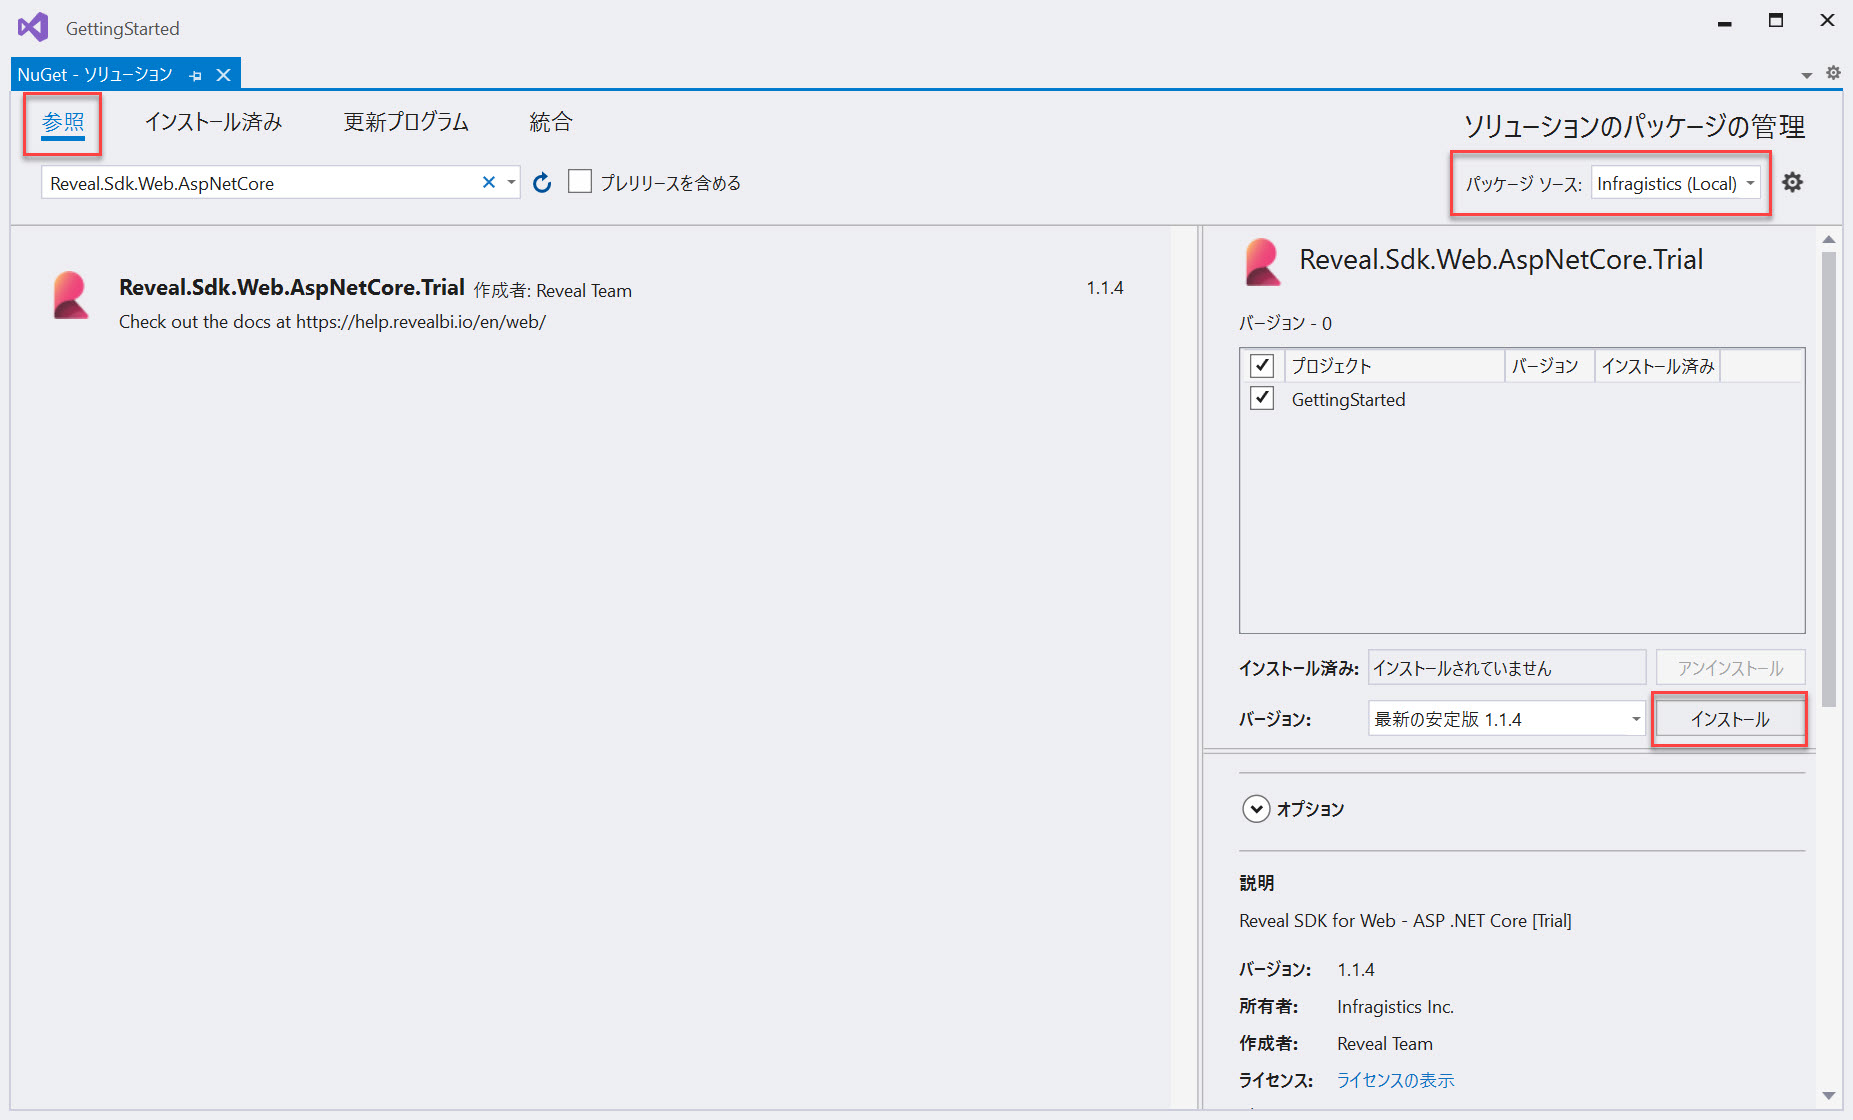
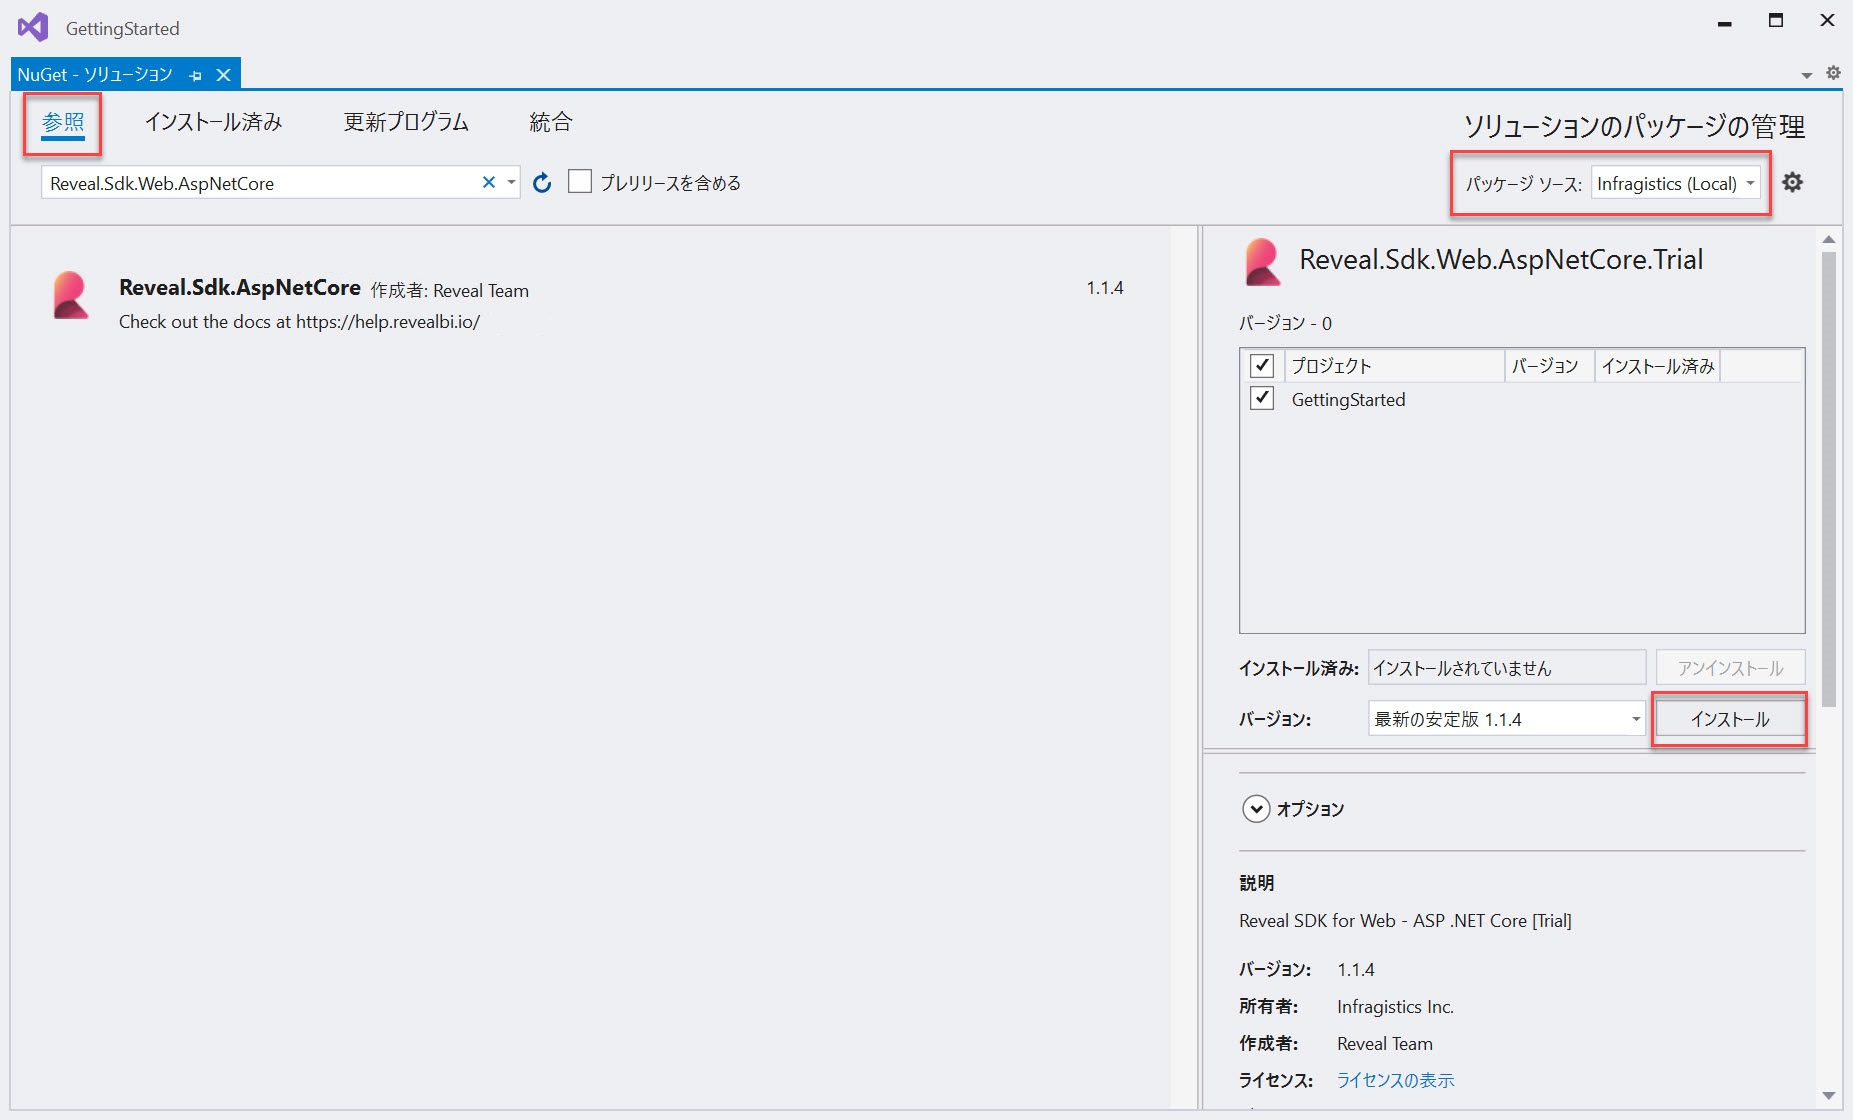
updated japanese docs for new nuget packages

diff --git a/i18n/ja/docusaurus-plugin-content-docs/current/web/getting-started-server.md b/i18n/ja/docusaurus-plugin-content-docs/current/web/getting-started-server.md
@@ -22,15 +22,9 @@
 
 ![](images/getting-started-nuget-packages-manage.jpg)
 
-2 - パッケージ マネージャー ダイアログで **[参照]** タブを開き、**Infragistics (Local)** パッケージ ソースを選択して **Reveal.Sdk.Web.AspNetCore** NuGet パッケージをプロジェクトにインストールします。
+2 - パッケージ マネージャー ダイアログで **[参照]** タブを開き、**Infragistics (Local)** パッケージ ソースを選択して **Reveal.Sdk.AspNetCore** NuGet パッケージをプロジェクトにインストールします。
 
 ![](images/getting-started-nuget-packages-install.jpg)
-
-:::info
-
-トライアル版をお使いの場合、[NuGet.org](https://www.nuget.org/packages/Reveal.Sdk.Web.AspNetCore.Trial/) にある **Reveal.Sdk.Web.AspNetCore.Trial** NuGet パッケージをインストールできます。
-
-:::
 
 3 - `Program.cs` ファイルを開き、`using Reveal.Sdk` 名前空間を追加します。次に、既存の `builder.Services.AddControllers()` メソッドに `IMcvBuilder.AddReveal()` の呼び出しを追加します。
 

diff --git a/i18n/ja/docusaurus-plugin-content-docs/current/web/configuring-server-aspnet.md b/i18n/ja/docusaurus-plugin-content-docs/current/web/configuring-server-aspnet.md
@@ -8,15 +8,9 @@
 
 ![](images/getting-started-nuget-packages-manage.jpg)
 
-2 - パッケージ マネージャー ダイアログで **[参照]** タブを開き、**Infragistics (Local)** パッケージ ソースを選択して **Reveal.Sdk.Web.AspNetCore** NuGet パッケージをプロジェクトにインストールします。
+2 - パッケージ マネージャー ダイアログで **[参照]** タブを開き、**Infragistics (Local)** パッケージ ソースを選択して **Reveal.Sdk.AspNetCore** NuGet パッケージをプロジェクトにインストールします。
 
 ![](images/getting-started-nuget-packages-install.jpg)
-
-:::info
-
-トライアル版をお使いの場合、[NuGet.org](https://www.nuget.org/packages/Reveal.Sdk.Web.AspNetCore.Trial/) にある **Reveal.Sdk.Web.AspNetCore.Trial** NuGet パッケージをインストールできます。
-
-:::
 
 3 - `Program.cs` ファイルを開き、`using Reveal.Sdk` 名前空間を追加します。次に、既存の `builder.Services.AddControllers()` メソッドに `IMcvBuilder.AddReveal()` の呼び出しを追加します。
 

diff --git a/i18n/ja/docusaurus-plugin-content-docs/current/web/getting-started-aspnet.md b/i18n/ja/docusaurus-plugin-content-docs/current/web/getting-started-aspnet.md
@@ -22,15 +22,9 @@
 
 ![](images/getting-started-nuget-packages-manage.jpg)
 
-2 - パッケージ マネージャー ダイアログで **[参照]** タブを開き、**Infragistics (Local)** パッケージ ソースを選択して **Reveal.Sdk.Web.AspNetCore** NuGet パッケージをプロジェクトにインストールします。
+2 - パッケージ マネージャー ダイアログで **[参照]** タブを開き、**Infragistics (Local)** パッケージ ソースを選択して **Reveal.Sdk.AspNetCore** NuGet パッケージをプロジェクトにインストールします。
 
 ![](images/getting-started-nuget-packages-install.jpg)
-
-:::info
-
-トライアル版をお使いの場合、[NuGet.org](https://www.nuget.org/packages/Reveal.Sdk.Web.AspNetCore.Trial/) にある **Reveal.Sdk.Web.AspNetCore.Trial** NuGet パッケージをインストールできます。
-
-:::
 
 3 - `Program.cs` ファイルを開き、`using Reveal.Sdk` 名前空間を追加します。次に、以下のように `IMcvBuilder.AddReveal()` への呼び出しを追加します。
 

diff --git a/i18n/ja/docusaurus-plugin-content-docs/current/wpf/getting-started.md b/i18n/ja/docusaurus-plugin-content-docs/current/wpf/getting-started.md
@@ -23,12 +23,6 @@
 
 ![](images/getting-started-nuget-packages-install.jpg)
 
-:::info
-
-トライアル版をお使いの場合、[NuGet.org](https://www.nuget.org/packages/Reveal.Sdk.Wpf.Trial/) にある **Reveal.Sdk.Wpf.Trial** NuGet パッケージをインストールできます。
-
-:::
-
 ### 手動
 
 1 - ソリューション エクスプローラーの [参照] ノードを右クリックし、**[参照の追加]** を選択します。
